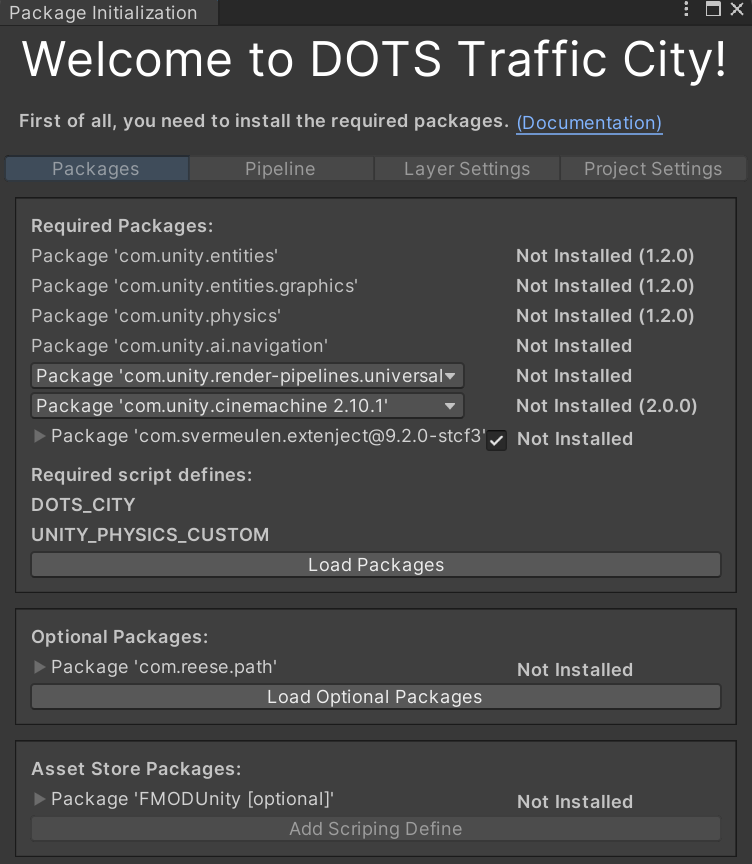
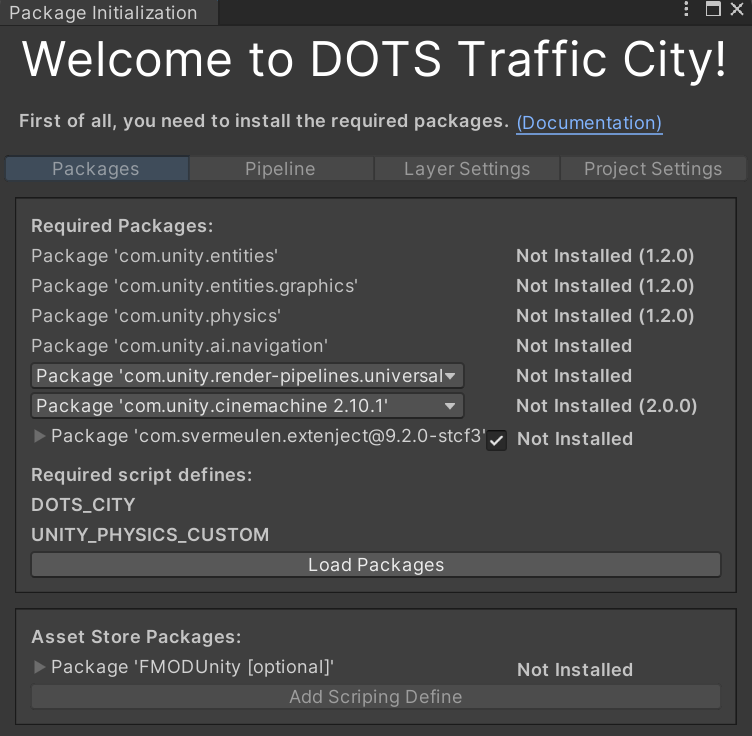
up

diff --git a/docs/source/conf.py b/docs/source/conf.py
@@ -6,8 +6,8 @@ project = 'DOTS Traffic City'
 copyright = '2026, 604Spirit'
 author = '604Spirit'
 
-release = '1.8.4'
-version = '1.8.4'
+release = '1.8.5'
+version = '1.8.5'
 
 # -- General configuration
 

diff --git a/docs/source/pedestrianInfo.rst b/docs/source/pedestrianInfo.rst
@@ -533,12 +533,12 @@ Navigation
 ----------
 
 | Navigation is used for pedestrian obstacle avoidance.
-| There are 3 types of navigation:
+| There are 5 types of navigation:
 
 .. _pedestrianNavmeshNavigation:
 
-NavMesh Navigating
-~~~~~~~~~~~~~~~~~~
+Simple NavMesh
+~~~~~~~~~~~~~~
 
 DOTS navigation on `NavMeshSurface <https://docs.unity3d.com/Packages/com.unity.ai.navigation@1.1/manual/NavMeshSurface.html>`_.
 
@@ -549,7 +549,6 @@ Useful links:
 Installation
 """"""""""""
 
-* Check that the :ref:`Navigation package <packageInstallationOptional>` is installed.
 * Make sure that navigation is enabled in the :ref:`General Config <generalSettingsConfig>`.
 * Ensure that :ref:`NavMeshObstacle <trafficNavMeshObstacle>` is enabled for traffic.
 * Each dynamic object in the scene must have a `NavMeshObstacle <https://docs.unity3d.com/Packages/com.unity.ai.navigation@1.1/manual/NavMeshObstacle.html>`_ component.
@@ -599,6 +598,66 @@ Cons:
 	* Can avoid vehicles only.
 	* Works on flat surfaces only.
 	
+.. _pedestrianCrowdAvoidance:
+
+Crowd Avoidance
+~~~~~~~~~~~~~~~
+
+High-performance DOTS-based crowd avoidance system designed for high agent density. It calculates lateral steering and separation/push forces between pedestrians, handles vehicle OBB avoidance with support for merging overlapping vehicle bounds (such as trailers or traffic jams), and dynamically enforces path boundary constraints.
+
+Useful links:
+	* :ref:`Crowd Avoidance Config <pedestrianCrowdAvoidanceConfig>`
+	* :ref:`Test scene <pedestrianNavigationTest>`.
+
+How To Setup
+""""""""""""
+
+* Set :ref:`Avoidance type <pedestrianObstacleAvoidanceType>` to `Crowd Avoidance`.
+* Configure parameters in the `Pedestrian Crowd Avoidance Authoring` component or via the :ref:`Crowd Avoidance Config <pedestrianCrowdAvoidanceConfig>`.
+
+Pros And Cons
+"""""""""""""
+
+Pros:
+	* High performance and scalability for large crowds.
+	* Handles both pedestrian-to-pedestrian separation and vehicle obstacle avoidance.
+	* Automatically keeps agents within sidewalk and crosswalk path boundaries.
+
+Cons:
+	* Designed primarily for flat surfaces.
+
+.. _pedestrianCrowdAvoidanceNavMesh:
+
+Crowd Avoidance NavMesh
+~~~~~~~~~~~~~~~~~~~~~~~
+
+Extends the Crowd Avoidance pipeline with NavMesh query integration. It uses multi-ray fan casts against the NavMesh to detect static geometry, providing wall repulsion and sliding forces, while continuously mapping agent height (`TargetY`) for uneven terrain.
+
+.. warning::
+   If **Move Inside Path** is enabled and a `NavMeshObstacle` blocks the path, pedestrians may get stuck permanently. To prevent this, either disable **Move Inside Path** or ensure the path is wide enough for agents to bypass the obstacle.
+
+Useful links:
+	* :ref:`Crowd Avoidance Config <pedestrianCrowdAvoidanceConfig>`
+	* :ref:`Test scene <pedestrianNavigationTest>`.
+
+How To Setup
+""""""""""""
+
+* Set :ref:`Avoidance type <pedestrianObstacleAvoidanceType>` to `Crowd Avoidance NavMesh`.
+* Ensure a valid `NavMeshSurface` is baked in the scene.
+* Configure parameters in the `Pedestrian Crowd Avoidance Authoring` component (see :ref:`Crowd Avoidance Config <pedestrianCrowdAvoidanceConfig>`).
+
+Pros And Cons
+"""""""""""""
+
+Pros:
+	* Full height-mapping support for sloped or multi-level terrain.
+	* Prevents agents from colliding with or walking through static NavMesh walls and obstacles.
+	* Combines dynamic agent crowd separation with static environment boundary logic.
+
+Cons:
+	* Slightly higher CPU load compared to flat Crowd Avoidance due to NavMesh raycasting.
+
 .. _pedestrianAgentsNavigation:
 
 Agents Navigation 
@@ -1171,6 +1230,110 @@ Config for :ref:`Local Avoidance <pedestrianLocalAvoidance>` navigation.
 | **Target point offset** : offset between an obstacle and avoidance waypoints.
 | **Achieve distance** : distance to achieve the avoidance waypoint.
 | **Check target availability** : check if destination can be reached; if not and no new target can be found, returns destination.
+
+.. _pedestrianCrowdAvoidanceConfig:
+
+Crowd Avoidance Config
+~~~~~~~~~~~~~~~~~~~~~~
+
+Config for :ref:`Crowd Avoidance <pedestrianCrowdAvoidance>` and :ref:`Crowd Avoidance NavMesh <pedestrianCrowdAvoidanceNavMesh>` navigation modes.
+
+Location in project:
+	``Hub/Configs/PedestrianConfigs/CrowdAvoidanceConfig``
+
+Key Setup Steps & Recommendations
+"""""""""""""""""""""""""""""""""
+
+When tuning the crowd avoidance configuration, follow this recommended sequence to achieve realistic movement and optimal performance:
+
+1. **Base Dimensions First**
+   * Adjust **Npc Radius** to match your pedestrian model's visual volume.
+   * Set **Effective Radius** based on local density. In dense urban environments, keeping it around 3–5 meters prevents agents from evaluating unnecessary distant interactions, saving CPU performance.
+
+2. **Detection & Early Steering (Look Ahead Pedestrian)**
+   * **Look Ahead Pedestrian** is a static configuration value (it does not dynamically scale with runtime speed changes). Set it to a fixed balance value (typically **1.5 – 2.5 meters**):
+     * *Why balance matters:* Setting this value too low (< 1.0 m) causes agents to notice collisions too late, leading to abrupt turns. Setting it too high (> 4.0–5.0 m) forces pedestrians to react to distant oncoming agents who would have already passed by, resulting in unnaturally wide avoidance arcs.
+   * Pair **Look Ahead Pedestrian** with **Side Bias Intensity** (>0.2) to ensure smooth, natural right-hand passing when two pedestrians meet head-on.
+   * **Steering vs Push Balance:** Use **Look Ahead Pedestrian** for smooth early steering reaction. If agents regularly bump into each other before turning, adjust *Look Ahead Pedestrian* before cranking up physical push forces (**Skin Pedestrian** / **Push Intensity**).
+
+3. **Pedestrian Separation & Density**
+   * For tight crowds, lower **Skin Pedestrian** and increase **Push Intensity Pedestrian** to enforce tight physical boundaries without visual clipping.
+   * If agents appear to "vibrate" or oscillate near their targets, lower **Steering Damping** slightly or increase **Arrival Fade Dist** so avoidance forces naturally decay as they reach their destination.
+
+4. **Vehicle Avoidance Tuning**
+   * Set **Look Ahead Car** based on average city traffic speeds. High-speed roads require longer look-ahead distances (8–12 meters).
+   * Always enable **Find Neighbors** if your city features large vehicles (articulated buses, trucks with trailers) or frequent traffic jams. This groups individual vehicle bounds into a unified convex shape, eliminating erratic zig-zagging between cars.
+   * Adjust **Tangent Blend Weight** (e.g., 0.6–0.8) if pedestrians should smoothly slide along the sides of stopped vehicles rather than bouncing backward.
+
+5. **Sidewalk & Crosswalk Constraints**
+   * Enable **Move Inside Path** to keep pedestrians strictly within sidewalk boundaries.
+   * If agents get pushed into the street by dense crowds, increase **Spring Multiplier** or **Apply Border Force**.
+   * Ensure **Apply Crosswalk Offset** is active if pedestrians need to spread out naturally while crossing roads.
+
+6. **NavMesh Integration (NavMesh Mode Only)**
+   * If using `Crowd Avoidance NavMesh`, fine-tune **Look Ahead Navmesh** to match pedestrian movement speed.
+   * **Important Trap:** If **Move Inside Path** is enabled alongside static `NavMeshObstacle` elements blocking the walkway, pedestrians may become stuck between path boundaries and NavMesh walls. Either disable **Move Inside Path** for complex custom static obstacles or ensure adequate clearance around obstacles.
+
+Parameters Reference
+""""""""""""""""""""
+
+**Steering Settings:**
+	* **Steering Damping** : how fast steering force returns to zero for smooth direction changes.
+	* **Side Bias Intensity** : artificial offset to break symmetry during head-on pedestrian encounters.
+	* **Arrival Fade Dist** : distance to destination where avoidance forces fade out for precise stopping.
+	* **Forward Momentum Weight** : weight for maintaining forward momentum (higher = tighter turns, lower = wider arcs).
+
+**Detection Ranges:**
+	* **Look Ahead Car** : detection distance for oncoming vehicles.
+	* **Look Ahead Pedestrian** : static forward vision distance for detecting nearby pedestrians. Controls early steering reaction before physical contact (recommended 1.5–2.5 m).
+	* **Effective Radius** : maximum grid query radius around the agent to ignore distant obstacles.
+	* **Find Neighbors** : merges overlapping vehicle bounds (e.g. trucks with trailers or jams) into a single OBB.
+
+**Margins (Skin):**
+	* **Npc Radius** : physical radius of the pedestrian.
+	* **Skin Car** : safety buffer distance around vehicles.
+	* **Skin Pedestrian** : safety buffer distance between pedestrians.
+
+**Force Intensities:**
+	* **Force Intensity Car** : multiplier for steering force when avoiding vehicles.
+	* **Force Intensity Pedestrian** : multiplier for steering force when avoiding pedestrians.
+	* **Push Intensity Car** : physical pushback force applied upon contacting vehicle colliders.
+	* **Push Intensity Pedestrian** : separation force preventing pedestrian overlapping.
+	* **Push Damping** : decay rate for physical separation and push forces.
+
+**Escape Logic:**
+	* **Escape Multiplier** : lateral force multiplier when directly facing an obstacle center.
+	* **Separation Buffer** : minimum distance threshold where physical separation push forces begin acting.
+
+**Border Settings:**
+	* **Move Inside Path** : constrains agents within sidewalk/path boundaries.
+	* **Spring Multiplier** : spring stiffness coefficient for returning agents to the sidewalk.
+	* **Apply Border Force** : enables stiff physical correction force when completely breaching sidewalk limits.
+	* **Apply Crosswalk Offset** : dynamically expands movement path width on crosswalks.
+	* **Crosswalk Offset** : additional path width offset added during crosswalk traversal.
+
+**Car Avoidance Blend Weights:**
+	* **Tangent Blend Weight** : weight of contour-sliding tangent vector parallel to vehicle edges (normal push weight derived as `1 - TangentBlendWeight`).
+
+**Bumper Fade Out Settings:**
+	* **Bumper Offset** : virtual extension of car length in meters before releasing avoidance control.
+	* **Bumper Fade Length** : distance over which avoidance force decays after clearing the bumper zone.
+
+**Global Force Limits:**
+	* **Max Push Force** : maximum capped repulsion/push force.
+	* **Max Steering Force** : maximum capped steering avoidance force.
+	* **Min Collision Speed** : minimum speed threshold used for collision impulse calculations against cars.
+
+**NavMesh Agent Settings (for Crowd Avoidance NavMesh):**
+	* **Avoid Navmesh Obstacles** : enables static NavMesh wall and edge avoidance.
+	* **Look Ahead Navmesh** : raycast distance along movement direction for wall detection.
+	* **Force Intensity Navmesh** : steering force intensity multiplier when NavMesh walls are detected.
+	* **Extents** : search box extents used for NavMeshQuery agent positioning.
+	* **Nav Agent Index** : NavMesh Agent Type ID.
+	* **Area Mask** : bitmask specifying valid NavMesh area types.
+	* **Wall Weight** : weight of perpendicular outward wall repulsion.
+	* **By Pass Weight** : weight of parallel wall-sliding bypass force.
+	* **Nav Mesh Side Padding** : extra side padding offset for left/right raycasts during wall detection.
 
 .. _pedestrianAntistuckConfig:
 

diff --git a/docs/source/packageInstallation.rst b/docs/source/packageInstallation.rst
@@ -55,23 +55,7 @@ Steps
 			* **UNITY_PHYSICS_CUSTOM**
 			
 #. After the packages have been downloaded & installed, if the console has :ref:`nunit.framework <nunitFix>` or `Burst` compilation errors, restart `Unity`.
-			
-	.. _packageInstallationOptional:
-	
-#. Click `Load Optional Packages` to start downloading the optional packages *(optional package,* :ref:`git <gitFix>` *required)*.
-
-	.. note::
-		**Optional packages:**
-			* **Reese's DOTS Navigation** (`com.reese.path`) - Reese's DOTS navigation package for :ref:`navigating <pedestrianNavigation>` on the NavMesh (`original git <https://github.com/reeseschultz/ReeseUnityDemos>`_) (the project uses the `604spirit's fork version <https://github.com/tawi1/ReeseUnityDemos>`_).
-		
-	.. note::
-		**Script define symbols required for the project:**
-			* **REESE_PATH**	
-		
-	.. warning::
-		If you get the error 'No git executable was found', read :ref:`this <gitFix>`.
-			
-#. Download the optional assets from the `Asset Store` `[from version v1.1.0, steps 7-9 are optional, a built-in audio engine is available by default]`:
+#. Download the optional assets from the `Asset Store` `[from version v1.1.0, steps 6-8 are optional, a built-in audio engine is available by default]`:
 
 	.. note::
 		**Optional asset store packages:**
@@ -85,8 +69,8 @@ Steps
 #. Install the :ref:`FMOD sound <fmodSound>` settings.
 
 	.. note::
-		* If the project is created from scratch, the **Pipeline**, **Layer settings**, and **Project settings** will be configured automatically. You can skip the next steps and proceed directly to **Step 13**.
-		* If you are updating an existing project, follow steps **10 to 12** manually inside the initialization window.
+		* If the project is created from scratch, the **Pipeline**, **Layer settings**, and **Project settings** will be configured automatically. You can skip the next steps and proceed directly to **Step 12**.
+		* If you are updating an existing project, follow steps **9 to 11** manually inside the initialization window.
 
 #. **[Manual Setup]** Open the `Pipeline` tab, press the `Import Graphics` button if you want to use the demo pipelines (optional step), otherwise set `Rendering path` to `Forward+ <https://docs.unity3d.com/Packages/com.unity.render-pipelines.universal@14.0/manual/rendering/forward-plus-rendering-path.html>`_ in your pipeline settings.
 #. **[Manual Setup]** Open the `Layer settings` tab, select the layers to import according to your use case, and press the `Apply` button.

diff --git a/docs/source/changelog.rst b/docs/source/changelog.rst
@@ -3,6 +3,26 @@
 Change Log
 **********
 
+[1.8.5] - 14-08-2026
+--------------------
+
+Added
+~~~~~
+
+* Added new Crowd Avoidance NavMesh feature to bypass NavMesh obstacles and maintain correct Y-axis snapping along NavMesh surface.
+
+Changed
+~~~~~~~
+
+* Removed Reese Path Navigation package and replaced it with a built-in package.
+* Renamed `Calc Nav Path` avoidance method to `Simple NavMesh`.
+* Reduced oscillation issues for crowd avoidance method.
+
+Fixed
+~~~~~
+
+* Fixed an Exception when using Train Mono.
+
 [1.8.4] - 10-08-2026
 --------------------
 
